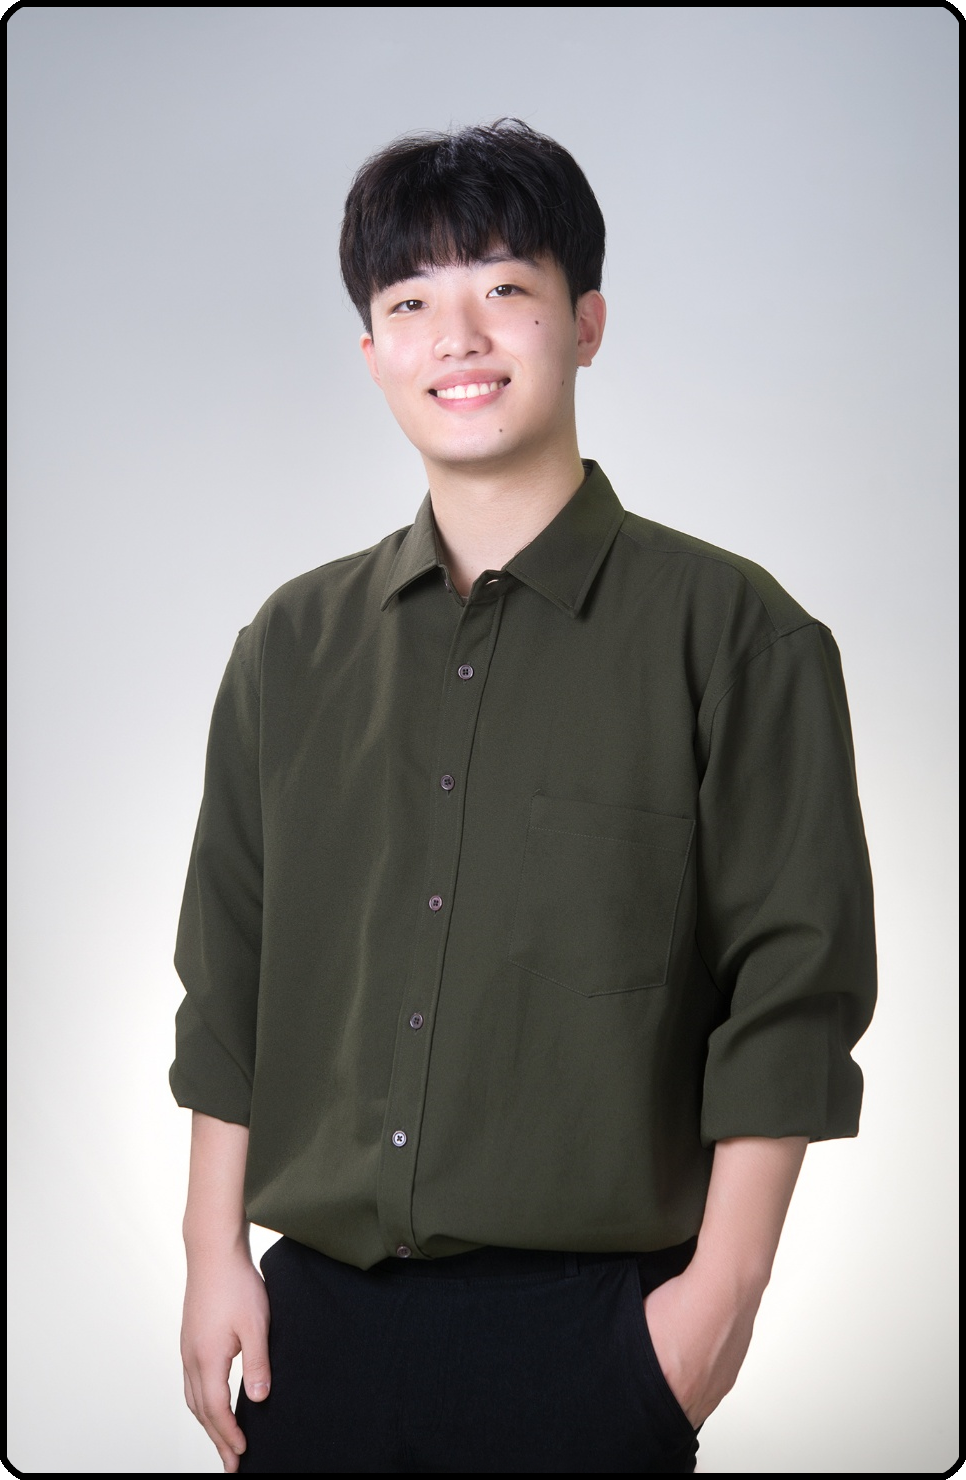
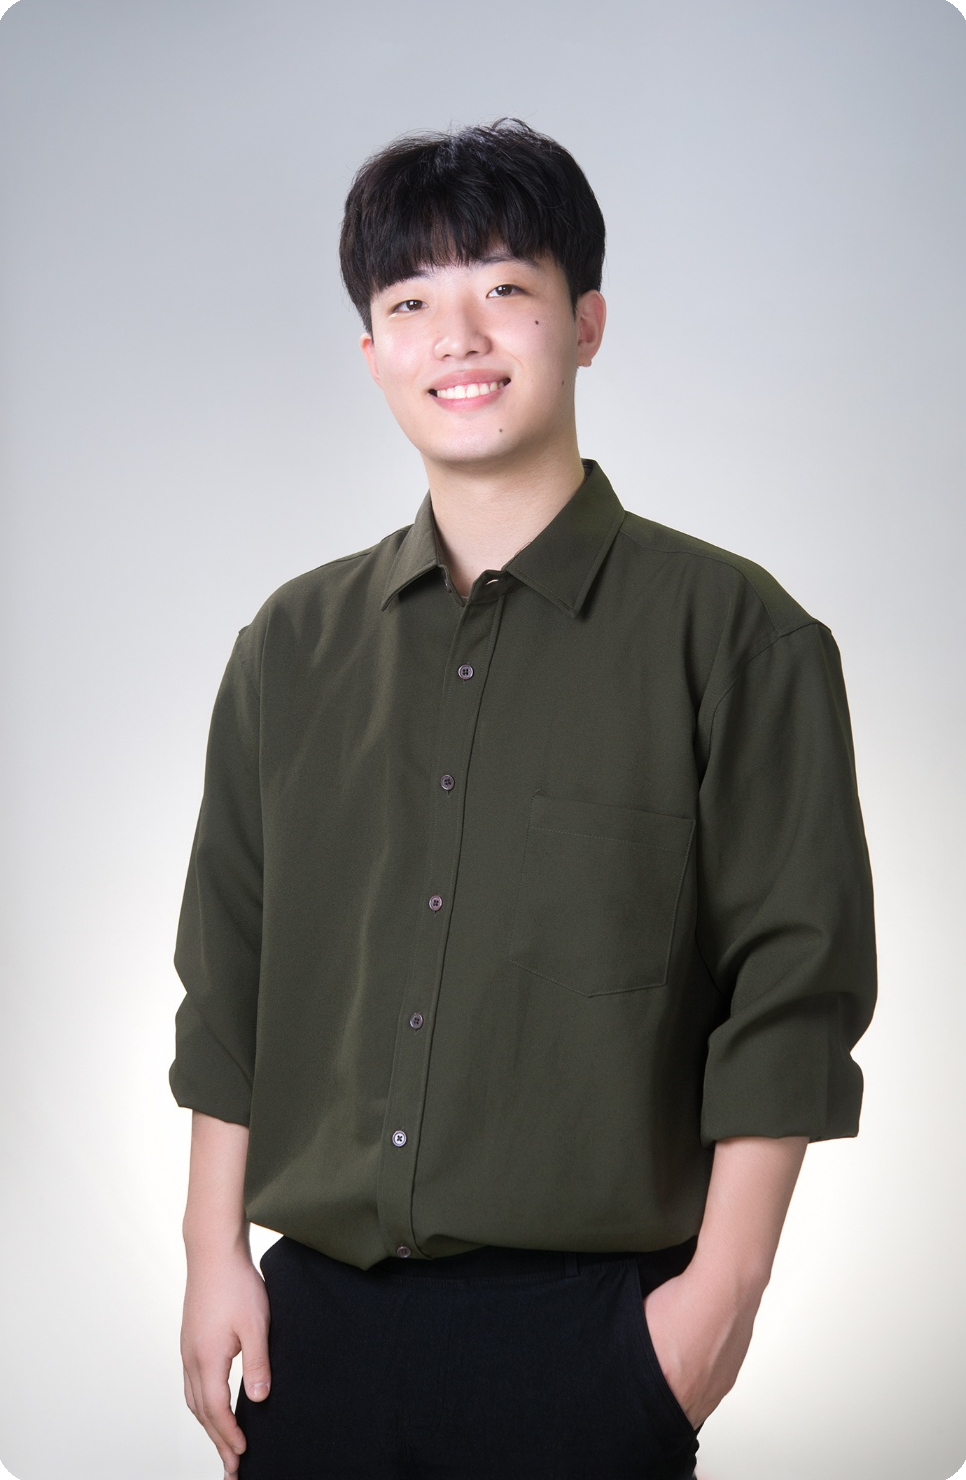
feat: about style

Changed region(s): [[0.0, 0.0, 1.0, 1.0], [0.7143, 0.9946, 0.9938, 1.0]]

diff --git a/src/components/organisms/about/about.tsx b/src/components/organisms/about/about.tsx
@@ -1,34 +1,74 @@
+"use client";
 import Layout from "@/components/atoms/common/layout/layout";
-import Image from "next/image";
 import Profile from "@/assets/images/profile.png";
+import Logo from "@/assets/images/logo.svg";
+import Image from "@/components/atoms/common/image/image";
+import toRem from "@/style/utils/toRem";
+import { realColor } from "@/style/theme/theme";
+import Title from "@/components/atoms/intro/title/title";
+import Content from "@/components/atoms/intro/content/content";
+import ToGo from "@/components/atoms/common/toGo/toGo";
 
 const About = () => {
   return (
-    <Layout display={"flex"} padding={"0 5vw"}>
-      <div>
-        <Image src={Profile} alt={""} />
-      </div>
-      <div>
-        <h2>ABOUT SeoJaeWan</h2>
-        <p>
-          안녕하세요! 프론트엔드 개발자 서재완입니다.
+    <Layout display={"flex"} justifyContent={"center"} padding={"5vw"}>
+      <Layout width={"40%"} display={"flex"} justifyContent={"center"}>
+        <Image
+          src={Profile}
+          alt={""}
+          width={toRem(350)}
+          height={"auto"}
+          aspectRatio={"966/1480"}
+          borderRadius={"10px"}
+          border={`1px solid ${realColor.black}`}
+        />
+      </Layout>
+      <Layout width={"50%"} marginLeft={"10px"} paddingTop={toRem(20)}>
+        <Title
+          display={"flex"}
+          alignItems={"center"}
+          gap={toRem(5)}
+          fontSize={toRem(20)}
+          fontWeight={"400"}
+          letterSpacing={toRem(-2)}
+        >
+          ABOUT
+          <Image
+            display={"inline-block"}
+            src={Logo}
+            width={"auto"}
+            height={"19px"}
+            aspectRatio={"899/147"}
+          />
+        </Title>
+        <Content lineHeight={toRem(30)}>
+          안녕하세요. 프론트엔드 개발자 서재완입니다!
           <br />
           낯선 기능에 설렘을 가지며 즐거운 개발을 하고 있습니다.
-        </p>
-        <p>
-          React와 Next.JS 환경에서 컴포넌트 단위 개발을 하고 있어요. 어떤 방법을
+        </Content>
+        <Content lineHeight={toRem(30)}>
+          React와 Next.js 환경에서 컴포넌트 단위 개발을 하고 있어요. 어떤 방법을
           사용해야 개발자가 편한 환경에서 개발을 할 수 있을지 고려하며 개발을
           하고 있습니다.
-        </p>
-        <p>
+        </Content>
+        <Content lineHeight={toRem(30)}>
           서비스의 완성을 위해서는 팀원과의 소통이 중요하다고 생각해요. 혼자
           앞서나가는 것이 아닌 전체의 전투력 상승에 관심이 많습니다. 🤔
-        </p>
-        <p>
+        </Content>
+        <Content lineHeight={toRem(30)}>
           개발 말고도 해외(일본)여행, 평생을 함께할 취미를 찾기 위해서 즐거운
           취미 찾기에도 열심히 하고 있어요.
-        </p>
-      </div>
+        </Content>
+
+        <ToGo
+          marginTop={toRem(50)}
+          href={
+            "https://gamy-wasp-3db.notion.site/111c97bafd8980918340fb21c4f94063?pvs=4"
+          }
+        >
+          자기소개 더보기
+        </ToGo>
+      </Layout>
     </Layout>
   );
 };

diff --git a/src/components/atoms/common/toGo/toGo.style.ts b/src/components/atoms/common/toGo/toGo.style.ts
@@ -1,0 +1,29 @@
+import createStyle, { GetStyleProps } from "@/style/module/createStyle";
+import interval from "@/style/module/styles/interval";
+import { realColor } from "@/style/theme/theme";
+import toRem from "@/style/utils/toRem";
+import Link from "next/link";
+import styled from "styled-components";
+
+const { cssStyle, getStyleProps } = createStyle([interval]);
+
+const ToGoContainer = styled(Link)`
+  ${cssStyle};
+
+  display: flex;
+  align-items: center;
+  gap: 5px;
+
+  font-size: ${toRem(20)};
+  font-weight: 700;
+
+  color: ${realColor.black};
+`;
+
+type ToGoStyleType = typeof ToGoContainer & GetStyleProps;
+
+const ToGoStyle = ToGoContainer as ToGoStyleType;
+
+ToGoStyle.getStyleProps = getStyleProps;
+
+export default ToGoStyle;

diff --git a/src/components/atoms/common/image/image.style.ts b/src/components/atoms/common/image/image.style.ts
@@ -1,11 +1,17 @@
 import createStyle, { GetStyleProps } from "@/style/module/createStyle";
+import border from "@/style/module/styles/border";
 import display from "@/style/module/styles/display";
 import interval from "@/style/module/styles/interval";
 import size from "@/style/module/styles/size";
 import Image from "next/image";
 import styled from "styled-components";
 
-const { cssStyle, getStyleProps } = createStyle([size, display, interval]);
+const { cssStyle, getStyleProps } = createStyle([
+  size,
+  display,
+  border,
+  interval,
+]);
 
 const ImageContainer = styled(Image)`
   display: block;

diff --git a/src/components/atoms/intro/title/title.style.ts b/src/components/atoms/intro/title/title.style.ts
@@ -1,10 +1,11 @@
 import createStyle, { GetStyleProps } from "@/style/module/createStyle";
+import display from "@/style/module/styles/display";
 import font from "@/style/module/styles/font";
 import interval from "@/style/module/styles/interval";
 import toRem from "@/style/utils/toRem";
 import styled from "styled-components";
 
-const { cssStyle, getStyleProps } = createStyle([interval, font]);
+const { cssStyle, getStyleProps } = createStyle([display, interval, font]);
 
 const TitleContainer = styled.h2`
   margin: 5px 0 10px;

diff --git a/src/components/atoms/common/toGo/toGo.tsx b/src/components/atoms/common/toGo/toGo.tsx
@@ -1,0 +1,18 @@
+import Image from "next/image";
+import ToGoStyle from "./toGo.style";
+import TogoIcon from "@/assets/images/toGo.svg";
+
+const ToGo = (props) => {
+  const { href, children } = props;
+  const styleProps = ToGoStyle.getStyleProps(props);
+
+  return (
+    <ToGoStyle href={href} target={"_blank"} {...styleProps}>
+      {children}
+
+      <Image src={TogoIcon} alt={""} width={19} height={19} />
+    </ToGoStyle>
+  );
+};
+
+export default ToGo;

diff --git a/src/style/module/styles/font.ts b/src/style/module/styles/font.ts
@@ -6,7 +6,7 @@ const font = [
   { key: "line-height", value: "lineHeight" },
   { key: "text-decoration", value: "textDecoration" },
   { key: "word-break", value: "wordBreak", default: "break-all" },
-  { key: "letter-spacing", value: "letterSpace" },
+  { key: "letter-spacing", value: "letterSpacing" },
   { key: "line-clamp", value: "lineClamp", isClamp: true },
 ];
 

diff --git a/src/components/organisms/header/header.style.ts b/src/components/organisms/header/header.style.ts
@@ -5,6 +5,7 @@ const HeaderStyle = styled.header`
   position: fixed;
   top: 4vw;
   left: 0;
+  z-index: 2;
 
   width: 100vw;
   height: ${toRem(46)};
@@ -12,6 +13,8 @@ const HeaderStyle = styled.header`
   padding: 0 5vw;
   font-size: ${toRem(16)};
   font-weight: 600;
+
+  background-color: white;
 
   div {
     display: flex;

diff --git a/src/components/atoms/intro/content/content.style.ts b/src/components/atoms/intro/content/content.style.ts
@@ -6,7 +6,7 @@ import styled from "styled-components";
 
 const { cssStyle, getStyleProps } = createStyle([interval, font]);
 
-const ContentContainer = styled.span`
+const ContentContainer = styled.p`
   display: block;
 
   margin: 20px 0;

diff --git a/src/style/global/global.ts b/src/style/global/global.ts
@@ -12,7 +12,9 @@ const GlobalStyle = createGlobalStyle`
         font-family: var(--font-pretendard); 
     }
 
-  
+    a {
+        text-decoration: none;
+    }
 `;
 
 export default GlobalStyle;

diff --git a/src/app/page.tsx b/src/app/page.tsx
@@ -11,7 +11,7 @@ const Home = () => {
       <Intro />
 
       {/* About */}
-      {/* <About /> */}
+      <About />
 
       {/* Portfolio */}
       {/* <Portfolio /> */}

diff --git a/src/style/theme/theme.ts b/src/style/theme/theme.ts
@@ -21,6 +21,10 @@ export const color = {
   },
 };
 
+export const realColor = {
+  black: "#000",
+};
+
 export const media = {
   mobile: 767,
   tablet: 1024,
